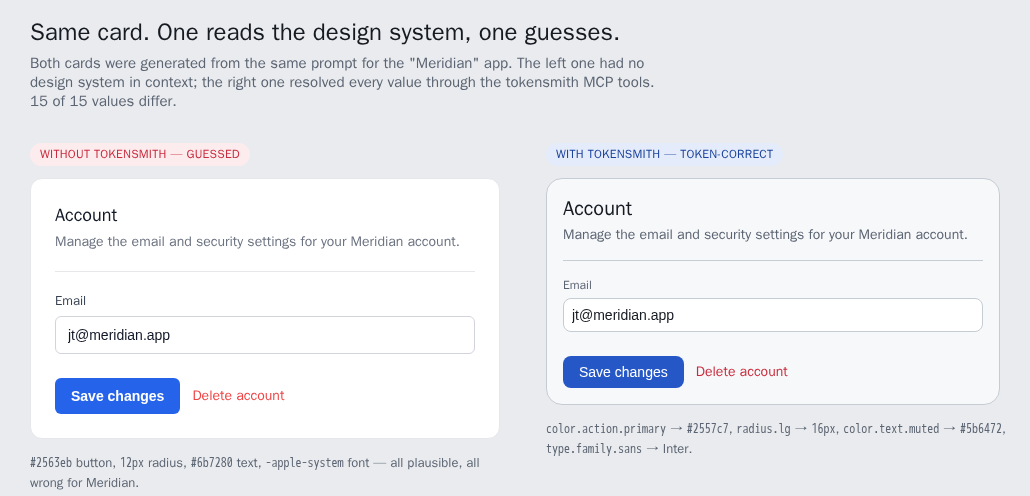
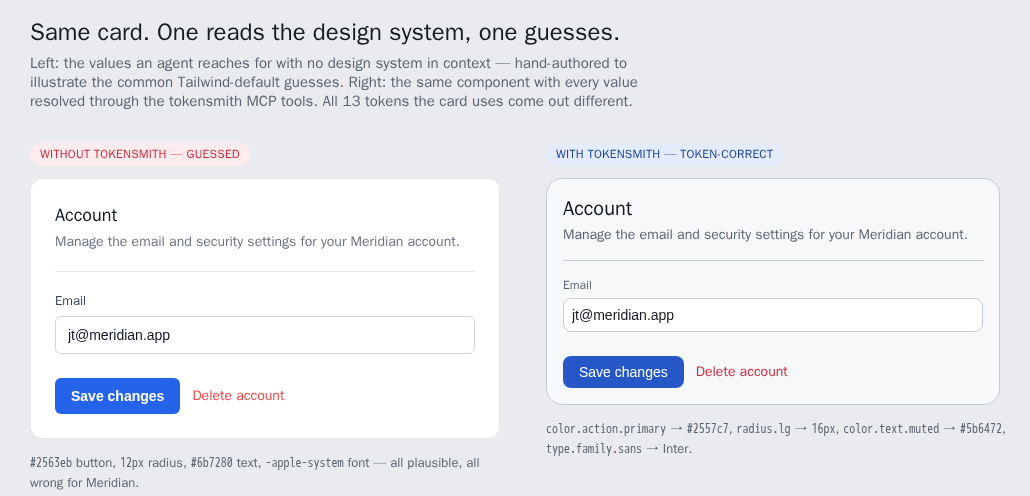
demo honesty pass (pre-public): relabel without.tsx as illustrative, drop false A/B framing, recompute stat to honest 13/13 distinct tokens, name the available-not-enforced gap

Changed region(s): [[0.0311, 0.121, 0.6524, 0.2117]]

diff --git a/demo/without.tsx b/demo/without.tsx
@@ -1,15 +1,14 @@
 /**
- * SettingsCard — WITHOUT tokensmith
+ * SettingsCard — WITHOUT tokensmith  (illustrative)
  *
- * Prompt given to the model:
- *   "Build a React settings card for the 'Meridian' app: a raised card with a
- *    title, a muted description, a divider, an email row, a primary 'Save
- *    changes' button, and a destructive 'Delete account' link."
+ * Hand-authored to show the values an agent — or a developer working from
+ * memory — reaches for when the design system ISN'T in context: generic
+ * Tailwind defaults. This is a worked example of the common failure mode, NOT a
+ * captured transcript of a specific model run.
  *
- * No design system was provided. Every color, size, radius, and spacing value
- * below is a GUESS — reasonable-looking defaults pulled from Tailwind muscle
- * memory. They are internally plausible but do not match Meridian's tokens.
- * See ../demo/README.md for the guessed-vs-token contrast.
+ * Same component and layout as with.tsx; every value here is a plausible guess
+ * (tagged "// GUESS") that does not match Meridian's tokens. The point is the
+ * contrast in ../demo/README.md: what gets guessed vs. what the tokens actually say.
  */
 import React from "react";
 

diff --git a/demo/with.tsx b/demo/with.tsx
@@ -1,15 +1,12 @@
 /**
  * SettingsCard — WITH tokensmith
  *
- * Prompt given to the model:
- *   "Build a React settings card for the 'Meridian' app (same structure as
- *    before). Use the design system via the tokensmith MCP tools — resolve
- *    every color, spacing, radius, and type value from a token; do not guess."
- *
- * Every literal below was resolved live through mcp__tokensmith__resolve_token /
- * list_tokens against the Meridian token set. The token path that produced each
- * value is named in the comment beside it. Aliases were followed to their
- * computed value (e.g. color.action.primary -> brand.primary -> base.blue-600).
+ * The same component as without.tsx, but every literal was resolved live through
+ * the tokensmith MCP tools (mcp__tokensmith__resolve_token / list_tokens) against
+ * the Meridian token set — these values are real tool output, not guesses. The
+ * token path that produced each one is named in the comment beside it, and
+ * aliases were followed to their computed value
+ * (e.g. color.action.primary -> brand.primary -> base.blue-600).
  *
  * In a real build these would compile to CSS variables; they are inlined here
  * so the demo is self-contained and every value is traceable to a token.

diff --git a/demo/preview.html b/demo/preview.html
@@ -36,9 +36,9 @@
   <div class="wrap">
     <h1>Same card. One reads the design system, one guesses.</h1>
     <p class="sub">
-      Both cards were generated from the same prompt for the "Meridian" app. The left one
-      had no design system in context; the right one resolved every value through the
-      tokensmith MCP tools. 15 of 15 values differ.
+      Left: the values an agent reaches for with no design system in context — hand-authored
+      to illustrate the common Tailwind-default guesses. Right: the same component with every
+      value resolved through the tokensmith MCP tools. All 13 tokens the card uses come out different.
     </p>
 
     <div class="cols">

diff --git a/demo/README.md b/demo/README.md
@@ -11,14 +11,15 @@ This directory contains one component, `SettingsCard`, built **twice**:
 - [`preview.html`](./preview.html) — a zero-dependency static render of both cards
   side by side (`preview.png` is a screenshot of it). Open it in any browser; no build.
 
-Same prompt structure, same layout. The only difference is whether the model could
-**read the design system** instead of inventing it.
+Same component, same layout. It contrasts the values that get **guessed** when the
+design system isn't in context against the values tokensmith **resolves** from the
+tokens. (The `without` file is a hand-authored illustration of the common Tailwind-default
+guesses, not a captured model run; the `with` values are real tool output.)
 
 ## The contrast
 
-Every guessed value below is plausible in isolation — and wrong for Meridian. A
-human reviewer would have to catch each one by hand in PR. With tokensmith the model
-resolves the real value (following alias chains up to 3 deep) and never guesses.
+One row per distinct token the card uses. Every guessed value is plausible in isolation
+— and wrong for Meridian. A human reviewer would have to catch each one by hand in PR.
 
 | Role | Token path | Guessed (`without`) | Token-correct (`with`) | Match? |
 |---|---|---|---|---|
@@ -26,20 +27,27 @@ resolves the real value (following alias chains up to 3 deep) and never guesses.
 | Card border | `color.border.default` | `#e5e7eb` | `#c6ccd4` | ✗ |
 | Card radius | `radius.lg` | `12px` | `16px` | ✗ |
 | Card padding | `space.inset.card` | `24px` | `16px` | ✗ |
-| Font family | `type.family.sans` | `-apple-system, system-ui` | `Inter, system-ui` | ✗ |
+| Font family † | `type.family.sans` | `-apple-system, system-ui` | `Inter, system-ui` | ✗ |
 | Title size | `type.size.lg` | `18px` | `20px` | ✗ |
 | Title weight | `type.weight.bold` | `600` | `700` | ✗ |
 | Title color | `color.text.default` | `#111827` | `#161a21` | ✗ |
 | Muted text | `color.text.muted` | `#6b7280` | `#5b6472` | ✗ |
-| Input radius | `radius.interactive` | `6px` | `8px` | ✗ |
-| Input padding | `space.inset.control` | `10px 12px` | `8px` | ✗ |
+| Interactive radius (input + button) | `radius.interactive` | `6px` | `8px` | ✗ |
+| Control padding (input + button) | `space.inset.control` | `10–12px` | `8px` | ✗ |
 | **Primary action bg** | `color.action.primary` | `#2563eb` | `#2557c7` | ✗ |
-| Primary hover | `color.action.primary-hover` | *(none)* | `#1a419c` | ✗ |
-| Button radius | `radius.interactive` | `6px` | `8px` | ✗ |
 | Destructive | `color.text.danger` | `#ef4444` | `#c92c3d` | ✗ |
 
-**15 of 15 values guessed wrong.** Not one Tailwind default happened to land on a
-Meridian token.
+**All 13 distinct tokens the card touches came out wrong.** Not one Tailwind default
+happened to land on a Meridian token.
+
+Kept honest — what that number does *not* include:
+- **† Font family:** the token value genuinely differs (`Inter` vs `-apple-system`), but
+  on a machine without Inter installed both fall back to `system-ui`, so the *rendered*
+  difference is often nil. Counted as a token miss, flagged because it may not be visible.
+- The guessed version also **omitted a hover state entirely** (`color.action.primary-hover`
+  → `#1a419c`). That's a missing state, not a wrong guess, so it's not in the 13.
+- A few incidental values *did* line up by luck — e.g. `14px` body/input text happens to
+  match `type.size.sm`. The 13 above are the tokens that came out different.
 
 ## Why the misses are invisible without tokens
 

diff --git a/README.md b/README.md
@@ -2,8 +2,8 @@
 
 **Make coding agents design-system-aware.** An MCP server that gives any agent
 (Claude Code, Claude Desktop, Cursor) first-class access to a design system's
-tokens — so the UI it generates comes out *on-system* and token-correct the first
-time, instead of a pile of guessed hex values.
+tokens — so the UI it writes can be *on-system* instead of a pile of guessed hex
+values.
 
 An agent writing UI today has no idea your design system exists. It reaches for
 `#2563eb` because that's the blue it remembers. tokensmith is the bridge: expose a
@@ -11,23 +11,29 @@ design system (W3C [Design Tokens / DTCG](https://tr.designtokens.org/) `tokens.
 over MCP so the agent *queries* the system — resolving `color.action.primary` to the
 real value, following alias chains — instead of inventing one.
 
+> **Scope, honestly.** tokensmith makes the design system *available* to the agent over
+> MCP; it does not yet *enforce* that the agent calls the tools or follows their output.
+> Today it removes the excuse to guess — it doesn't yet prevent guessing. Closing that
+> gap (verify generated UI actually used the tokens) is the [roadmap](#status--roadmap).
+
 ---
 
 ## The 30-second demo
 
 ![Two SettingsCard components side by side — a guessed version and a token-correct version generated from the same prompt](./demo/preview.png)
 
-*Same prompt, same layout. Left: no design system in context. Right: values resolved through tokensmith. The drift is subtle on purpose — that's exactly why it ships unnoticed. Open [`demo/preview.html`](./demo/preview.html) to view it live.*
+*Left: the values an agent reaches for with no design system in context (hand-authored to show the common Tailwind-default guesses). Right: the same component with every value resolved through tokensmith. The drift is subtle on purpose — that's exactly why it ships unnoticed. Open [`demo/preview.html`](./demo/preview.html) to view it live.*
 
-The [`demo/`](./demo/) directory builds one component, `SettingsCard`, twice:
+The [`demo/`](./demo/) directory holds one component, `SettingsCard`, two ways:
 
-- [`without.tsx`](./demo/without.tsx) — no design system in context. The model guesses
-  every value from generic Tailwind muscle memory.
-- [`with.tsx`](./demo/with.tsx) — *"use the design system via the tokensmith tools."*
-  Every literal is resolved live through the MCP server, each one citing its token path.
+- [`without.tsx`](./demo/without.tsx) — a hand-authored illustration of the values an
+  agent (or a dev working from memory) reaches for when the design system isn't in
+  context: generic Tailwind defaults. It's a worked example, not a captured model run.
+- [`with.tsx`](./demo/with.tsx) — the same component with every literal resolved live
+  through the tokensmith MCP tools, each one citing the token path it came from. These
+  values are real tool output.
 
-Same prompt, same layout. The only difference is whether the agent could **read** the
-design system. The result:
+Guessed vs. resolved, one row per distinct token the card uses:
 
 | Role | Token path | Guessed | Token-correct |
 |---|---|---|---|
@@ -36,12 +42,13 @@ design system. The result:
 | Card radius | `radius.lg` | `12px` | `16px` |
 | Muted text | `color.text.muted` | `#6b7280` | `#5b6472` |
 | Font family | `type.family.sans` | `-apple-system` | `Inter` |
-| … | | **15 / 15 guessed wrong** | |
+| … | | **all 13 tokens differ** | |
 
 Not one Tailwind default landed on a Meridian token. `#2563eb` vs `#2557c7` renders as
 "blue," passes visual review, and ships — that is exactly the drift a token system
 exists to prevent, and exactly the drift an LLM reintroduces the moment it can't read
-the tokens. Full breakdown + the alias chains in [`demo/README.md`](./demo/README.md).
+the tokens. Full breakdown, honest caveats, and the alias chains in
+[`demo/README.md`](./demo/README.md).
 
 ---
 